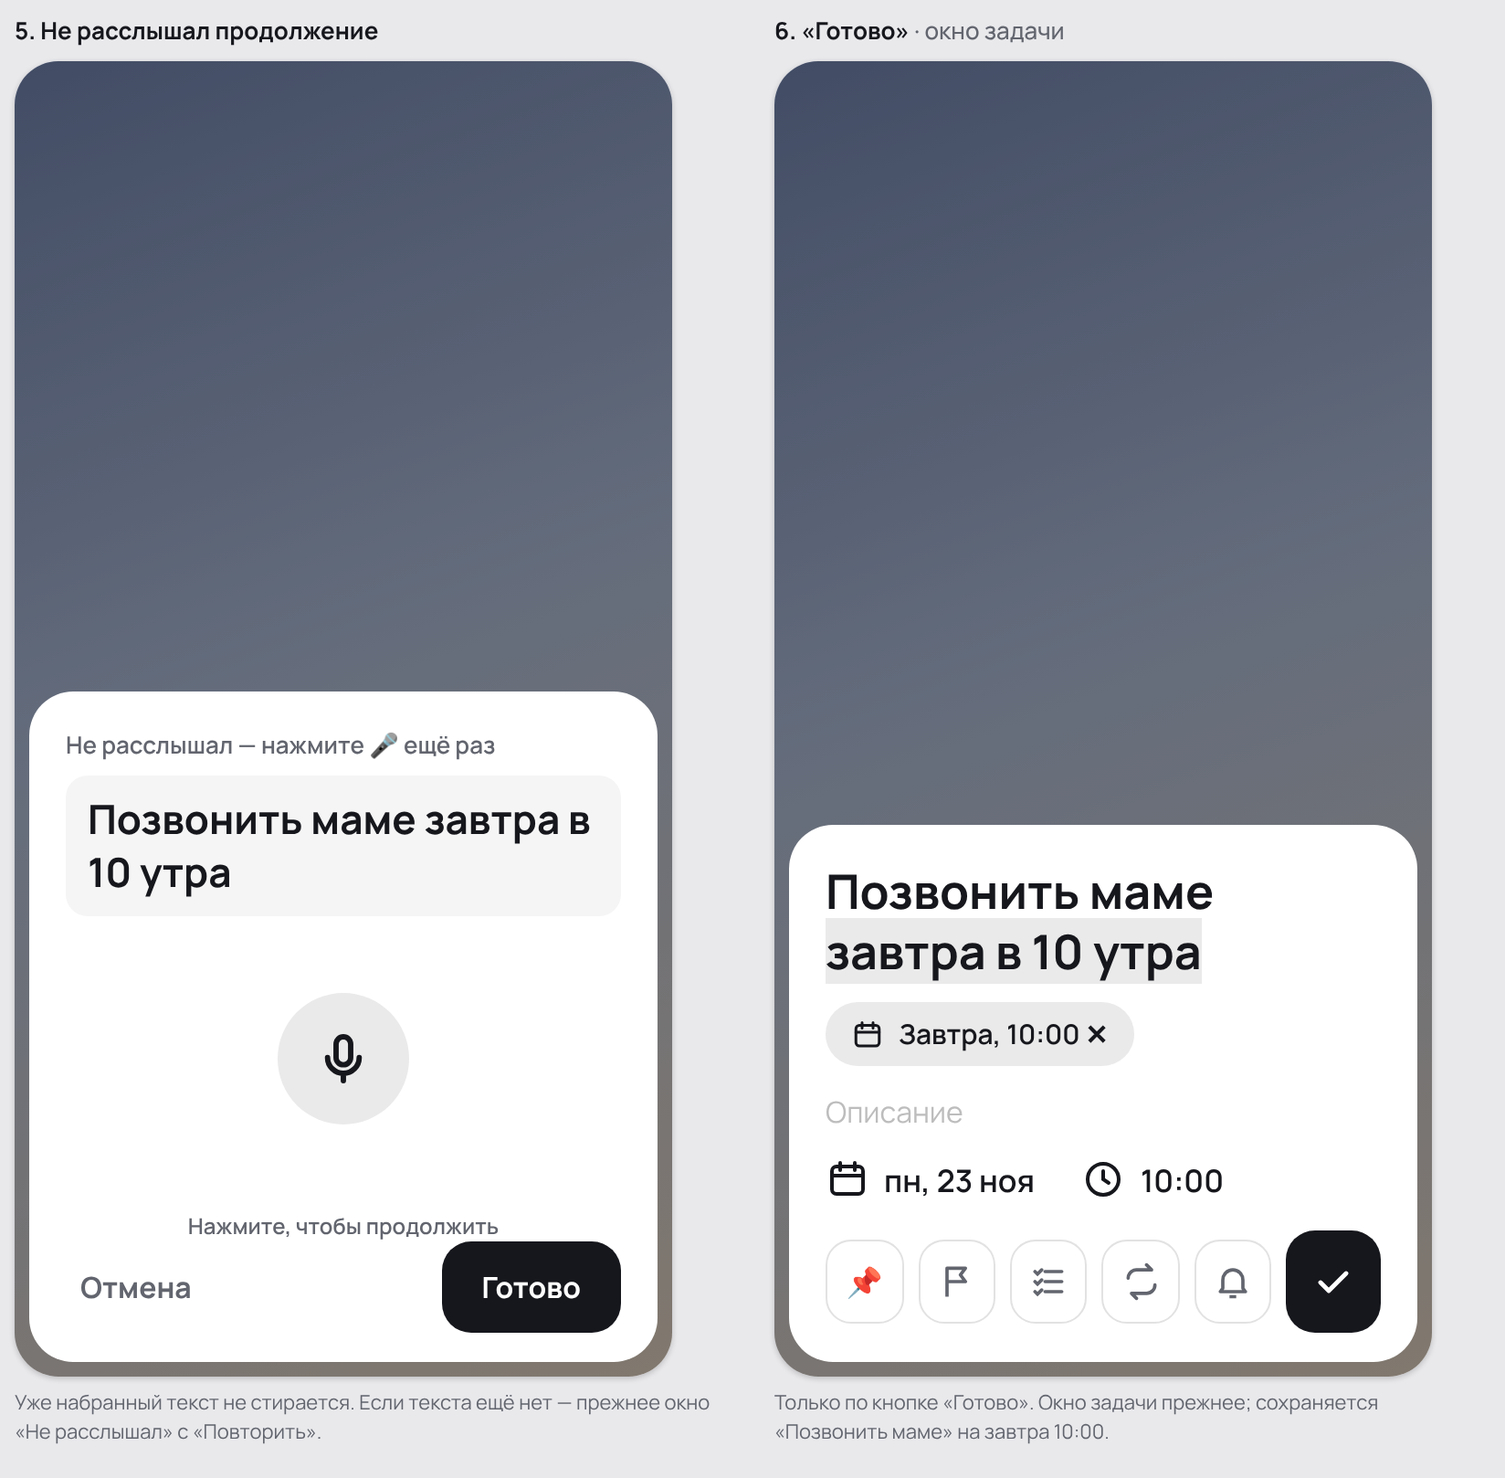
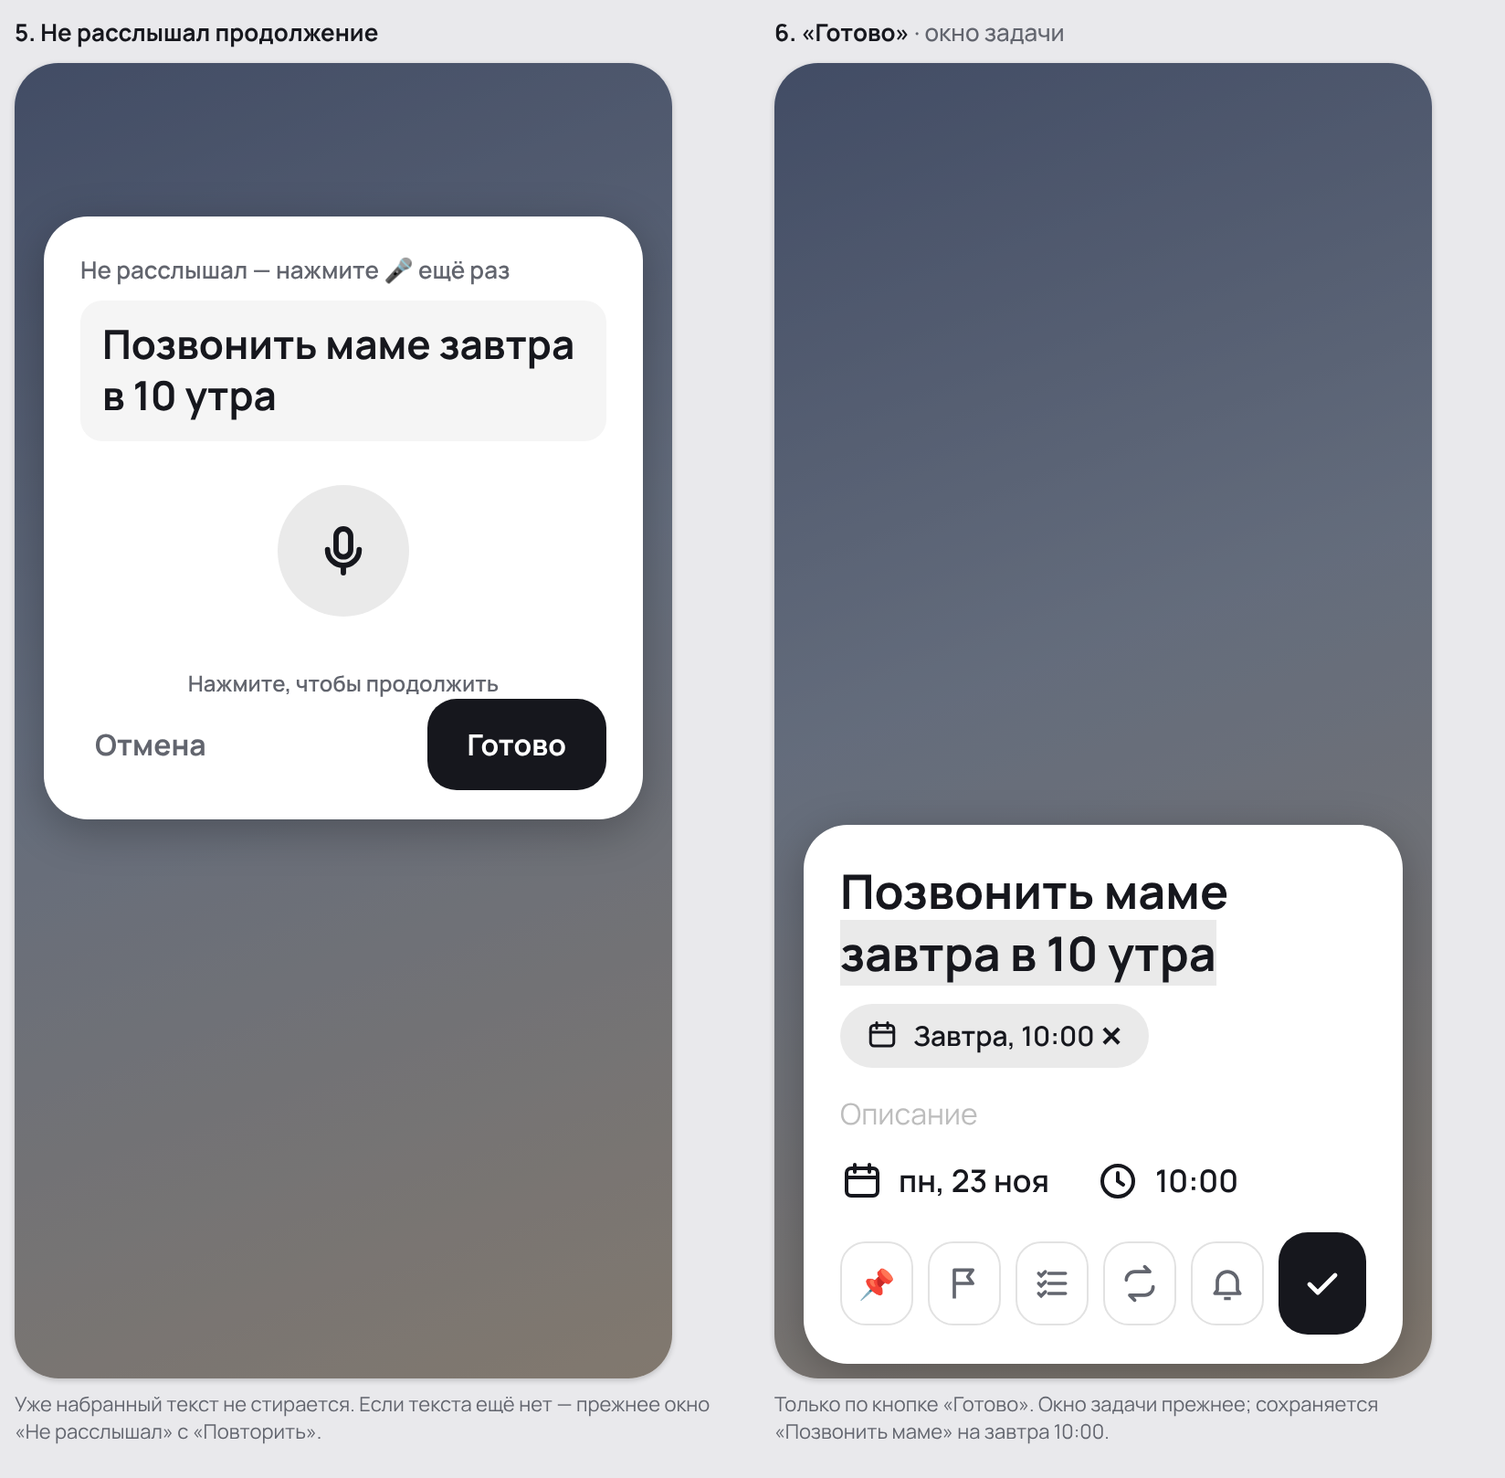
Макеты #299: окно по центру и неподвижное, варианты анимации микрофона
Claude-Session: https://claude.ai/code/session_019jJJH8rKyfX5gCn8Qf3pcD

diff --git a/design/approved/299/anim.html b/design/approved/299/anim.html
@@ -1,0 +1,59 @@
+<!DOCTYPE html>
+<html lang="ru"><head><meta charset="utf-8"><title>Анимации микрофона</title>
+<!-- #299. Варианты анимации большого микрофона при голосе. Монохром: цвета ColorTokens. Громкость голоса в приложении меняет размер/высоту, здесь она имитируется циклом. -->
+<style>
+@font-face { font-family: Manrope; font-weight: 600; src: url(../../../app/src/main/res/font/manrope_600.ttf); }
+@font-face { font-family: Manrope; font-weight: 800; src: url(../../../app/src/main/res/font/manrope_800.ttf); }
+:root { --bg:#F5F5F5; --text:#16171D; --text2:#62656E; --soft:#EAEAEA; --accent:#16171D; --inactive:#A9A9A9; }
+* { box-sizing: border-box; }
+body { margin:0; padding:16px; background:#E9E9EC; font-family: Manrope, sans-serif; color: var(--text); }
+#grid { display:grid; grid-template-columns: repeat(3, 320px); gap:12px; width: max-content; }
+.cell { width:320px; height:200px; background:#fff; border-radius:20px; position:relative; overflow:hidden; box-shadow: 0 1px 3px #0002; }
+.cell h3 { margin:0; position:absolute; left:14px; top:12px; font-size:14px; font-weight:800; }
+.cell p { margin:0; position:absolute; left:14px; bottom:10px; right:14px; font-size:11px; font-weight:600; color: var(--text2); line-height:1.3; }
+.stage { position:absolute; left:0; right:0; top:34px; height:130px; display:grid; place-items:center; }
+.mic { width:72px; height:72px; border-radius:50%; background:var(--accent); display:grid; place-items:center; position:relative; z-index:3; }
+.mic svg { width:32px; height:32px; color:#fff; }
+.abs { position:absolute; left:50%; top:50%; border-radius:50%; }
+/* А: круги-пульс */
+@keyframes pulseA { 0%,100% { transform: translate(-50%,-50%) scale(.78) } 25% { transform: translate(-50%,-50%) scale(1.2) } 50% { transform: translate(-50%,-50%) scale(.9) } 75% { transform: translate(-50%,-50%) scale(1.05) } }
+.a1 { width:120px;height:120px;background:var(--soft); animation: pulseA 2400ms ease-in-out infinite; }
+.a2 { width:96px;height:96px;background:#DADADA; animation: pulseA 2400ms ease-in-out infinite -300ms; }
+/* Б: эквалайзер в чёрном круге */
+.eq { display:flex; gap:5px; align-items:center; height:36px; }
+.eq i { display:block; width:6px; height:36px; border-radius:3px; background:#fff; transform-origin:center; animation: eq 1200ms ease-in-out infinite; }
+@keyframes eq { 0%,100% { transform: scaleY(.18) } 35% { transform: scaleY(1) } 65% { transform: scaleY(.45) } }
+/* В: бегущая волна */
+.wave { position:absolute; left:14px; right:14px; top:50%; height:90px; margin-top:-45px; display:flex; gap:3px; align-items:center; justify-content:center; }
+.wave i { display:block; width:4px; height:80px; border-radius:2px; background:#BDBDBD; animation: wave 2400ms ease-in-out infinite; }
+@keyframes wave { 0%,100% { transform: scaleY(.1) } 50% { transform: scaleY(1) } }
+/* Г: радар */
+@keyframes ripple { 0% { transform: translate(-50%,-50%) scale(.6); opacity:.9 } 100% { transform: translate(-50%,-50%) scale(1.9); opacity:0 } }
+.r { width:72px;height:72px; border:2px solid #9E9E9E; animation: ripple 2400ms ease-out infinite; }
+/* Д: точки по кругу */
+.ring { position:absolute; left:50%; top:50%; width:0; height:0; }
+.ring i { position:absolute; left:-4px; top:-4px; width:8px; height:8px; border-radius:50%; background:var(--accent); animation: dot 2400ms ease-in-out infinite; }
+@keyframes dot { 0%,100% { transform: var(--p) scale(.5); opacity:.35 } 50% { transform: var(--p) scale(1.5); opacity:1 } }
+/* Е: дыхание-свечение */
+@keyframes glow { 0%,100% { transform: translate(-50%,-50%) scale(.85); opacity:.55 } 50% { transform: translate(-50%,-50%) scale(1.25); opacity:1 } }
+.g1 { width:150px;height:150px;background:radial-gradient(circle, #CFCFCF 0%, #E6E6E6 45%, #fff 72%); animation: glow 2400ms ease-in-out infinite; }
+@keyframes breathe { 0%,100% { transform: scale(1) } 50% { transform: scale(1.1) } }
+.mic.b { animation: breathe 2400ms ease-in-out infinite; }
+</style></head><body>
+<svg width="0" height="0" style="position:absolute"><symbol id="i-mic" viewBox="0 0 24 24"><rect x="9" y="3" width="6" height="11.5" rx="3" fill="none" stroke="currentColor" stroke-width="2.2"/><path d="M5.5,11.5a6.5,6.5 0 0 0 13 0 M12,18v3" fill="none" stroke="currentColor" stroke-width="2.2" stroke-linecap="round"/></symbol></svg>
+<div id="grid">
+  <div class="cell"><h3>А. Круги-пульс</h3><div class="stage"><span class="abs a1"></span><span class="abs a2"></span><span class="mic"><svg><use href="#i-mic"/></svg></span></div><p>Мягкие круги вокруг микрофона дышат в такт голосу. Как сейчас, но плавнее.</p></div>
+  <div class="cell"><h3>Б. Эквалайзер</h3><div class="stage"><span class="mic"><div class="eq" id="eq"></div></span></div><p>Вместо значка в чёрном круге пять столбиков прыгают вместе с голосом. Пауза — столбики замирают и снова превращаются в 🎤.</p></div>
+  <div class="cell"><h3>В. Бегущая волна</h3><div class="stage"><div class="wave" id="wave"></div><span class="mic"><svg><use href="#i-mic"/></svg></span></div><p>За микрофоном волна из тонких столбиков бежит через всё окно, громче голос — выше волна.</p></div>
+  <div class="cell"><h3>Г. Радар</h3><div class="stage"><span class="abs r"></span><span class="abs r" style="animation-delay:-800ms"></span><span class="abs r" style="animation-delay:-1600ms"></span><span class="mic"><svg><use href="#i-mic"/></svg></span></div><p>Тонкие кольца расходятся от микрофона и гаснут, как сигнал. Спокойно и аккуратно.</p></div>
+  <div class="cell"><h3>Д. Точки по кругу</h3><div class="stage"><div class="ring" id="ring"></div><span class="mic"><svg><use href="#i-mic"/></svg></span></div><p>Двенадцать точек вокруг микрофона по очереди вспыхивают, голос делает вспышки крупнее.</p></div>
+  <div class="cell"><h3>Е. Дыхание</h3><div class="stage"><span class="abs g1"></span><span class="mic b"><svg><use href="#i-mic"/></svg></span></div><p>Сам микрофон чуть «дышит», вокруг мягкое серое свечение. Самый тихий вариант.</p></div>
+</div>
+<script>
+const eq = document.getElementById('eq');
+[0,150,300,75,225].forEach(d => { const i = document.createElement('i'); i.style.animationDelay = (-d)+'ms'; i.style.animationDuration = (900+d%3*150)+'ms'; eq.appendChild(i); });
+const wave = document.getElementById('wave');
+for (let k=0;k<48;k++){ const i=document.createElement('i'); i.style.animationDelay = (-k*50)+'ms'; wave.appendChild(i); }
+const ring = document.getElementById('ring');
+for (let k=0;k<12;k++){ const i=document.createElement('i'); const a=k*30; i.style.setProperty('--p', `rotate(${a}deg) translateY(-54px)`); i.style.animationDelay=(-k*200)+'ms'; ring.appendChild(i); }
+</script></body></html>

diff --git a/design/approved/299/screens.html b/design/approved/299/screens.html
@@ -52,7 +52,9 @@
     background: linear-gradient(160deg, #6E7FA8 0%, #A7B5CF 45%, #D8C9B8 100%); }
   .phone .scrim { position: absolute; inset: 0; background: #00000066; }
   .phone .home-widget { position: absolute; left: 12px; right: 12px; top: 64px; opacity: .9; }
-  .sheet { position: absolute; left: 8px; right: 8px; bottom: 8px; background: var(--surface); border-radius: 24px; padding: 20px 20px 16px; }
+  .sheet { position: absolute; left: 16px; right: 16px; top: 84px; height: 330px; background: var(--surface); border-radius: 24px; padding: 20px 20px 16px; display: flex; flex-direction: column; box-shadow: 0 6px 24px #0004; }
+  .sheet .micwrap, .sheet .micwrap.n { flex: 1; height: auto; padding-bottom: 20px; }
+  .sheet.qa { top: auto; bottom: 8px; height: auto; display: block; }
   .hint { font-size: 13px; font-weight: 600; color: var(--text2); }
   .said { font-size: 24px; font-weight: 700; line-height: 1.3; margin: 8px 0 0; min-height: 62px; }
   .said .tail { color: var(--inactive); }
@@ -96,8 +98,6 @@
   .kbd div { display: flex; gap: 5px; justify-content: center; }
   .kbd span { flex: 1; max-width: 31px; background: #fff; border-radius: 6px; box-shadow: 0 1px 0 #0002; }
   .kbd .wide { max-width: 180px; }
-  .phone.k .sheet { bottom: 258px; }
-  .phone.k .micwrap { height: 96px; }
   .dimx { font-size: 11px; color: var(--text2); margin-top: 6px; line-height: 1.4; }
 </style>
 </head>
@@ -150,9 +150,9 @@
     <div class="phone k"><div class="scrim"></div><div class="sheet">
       <div class="hint">Проверьте текст</div>
       <div class="field"><div class="said">Позвонить маме завтра в 10 утра<span class="cursor"></span></div></div>
-      <div class="micwrap"><span class="mic soft" style="width:56px;height:56px"><svg style="width:26px;height:26px"><use href="#i-mic"/></svg></span></div><div class="actions"><span class="tbtn">Отмена</span><span class="pbtn">Готово</span></div></div>
+      <div class="micwrap"><span class="mic soft"><svg><use href="#i-mic"/></svg></span></div><div class="actions"><span class="tbtn">Отмена</span><span class="pbtn">Готово</span></div></div>
       <div class="kbd"><div><span></span><span></span><span></span><span></span><span></span><span></span><span></span><span></span><span></span><span></span><span></span></div><div><span></span><span></span><span></span><span></span><span></span><span></span><span></span><span></span><span></span><span></span><span></span></div><div><span></span><span></span><span></span><span></span><span></span><span></span><span></span><span></span><span></span></div><div><span></span><span class="wide"></span><span></span></div></div></div>
-    <p class="dimx">Окно поднимается над клавиатурой, кнопки видны. Нажатие на 🎤 скрывает клавиатуру и продолжает диктовку с конца текста.</p></div>
+    <p class="dimx">Окно стоит на том же месте, клавиатура открывается под ним и его не двигает: нижняя кромка окна выше клавиатуры. Нажатие на 🎤 скрывает клавиатуру и продолжает диктовку с конца текста.</p></div>
   <div id="v4"><p class="cap">4. Продолжение диктовки</p>
     <div class="phone"><div class="scrim"></div><div class="sheet">
       <div class="hint">Слушаю…</div>

diff --git a/design/approved/299/requirements.md b/design/approved/299/requirements.md
@@ -32,12 +32,17 @@
 | Не расслышал продолжение | «Не расслышал — нажмите 🎤 ещё раз» | прежний текст сохраняется | серый | «Отмена», «Готово» |
 | Ошибка без текста | как в #95: «Не расслышал» / нет доступа / недоступно | — | — | как в #95 |
 
+- **Положение.** Окно стоит по центру в верхней половине экрана, ближе к верху: отступ от верхнего края ~84 dp, высота ~330 dp, поля по бокам 16 dp, скругление 24 dp, лёгкая тень. Положение и размер **фиксированы**: окно не двигается и не меняет размер при появлении и скрытии клавиатуры, при росте текста (поле прокручивается внутри) и при паузе. Нижняя кромка окна выше самой высокой клавиатуры, поэтому кнопки «Отмена» и «Готово» остаются видны. Окно поверх рабочего стола не изменяет размер под клавиатуру (`adjustNothing`).
 - Запись начинается сразу при открытии окна.
 - После паузы распознаватель сам завершает запись — окно не закрывается и в задачу ничего не передаёт.
 - Продолжение: новая запись, результат дописывается в конец через пробел. Курсор после правки не учитывается — дописываем в конец.
 - Нажатие на поле во время записи останавливает запись и открывает клавиатуру. Окно поднимается над клавиатурой, кнопки видны; нажатие на 🎤 скрывает клавиатуру и продолжает диктовку.
 - «Готово» передаёт текущий текст поля в окно задачи (запись, если идёт, останавливается, текст берётся как есть). Пустой текст — кнопка неактивна.
 - «Отмена», «Назад», нажатие на затемнение — окно закрывается без задачи.
+
+## 2.1. Анимация микрофона при голосе
+
+Во время записи большой 🎤 анимируется по громкости голоса; на паузе анимации нет, микрофон серый. Варианты показаны в [animations.gif](animations.gif) и [anim.html](anim.html): А «Круги-пульс», Б «Эквалайзер», В «Бегущая волна», Г «Радар», Д «Точки по кругу», Е «Дыхание». Выбор PM — после согласования. Все варианты монохромные, без новых токенов цвета; при включённом в системе «Убрать анимации» вместо движения показывается неподвижный чёрный микрофон.
 
 ## 3. Текст
 
@@ -56,4 +61,5 @@
 ## Вне объёма
 
 - Непрерывная запись без остановки на паузах (вариант Б вопроса 1).
+- Перетаскивание окна и изменение его размера пользователем.
 - Микрофон внутри приложения.

diff --git a/design/approved/299/README.md b/design/approved/299/README.md
@@ -3,7 +3,8 @@
 Статус — на согласовании PM. [ТЗ](requirements.md) · [Issue](https://github.com/prostovasei/simpe-tasks-app/issues/299) · [Исходник макетов](screens.html). Доработка [#95](../95/README.md).
 
 - [Кнопка в виджете](widget-mic.png) — светло-серая подложка, чёрный значок; 392 и 320 dp.
-- [Окно распознавания](voice-edit.png) — запись, пауза с текстом в поле, правка с клавиатуры, продолжение диктовки.
+- [Окно распознавания](voice-edit.png) — окно по центру сверху, неподвижное: запись, пауза с текстом в поле, правка с клавиатуры (окно не сдвигается), продолжение диктовки.
+- [Анимации микрофона](animations.gif) · [кадр](animations.png) · [исходник](anim.html) — шесть вариантов, выбор PM.
 - [Ошибка и переход](voice-continue.png) — «Не расслышал» без потери текста; «Готово» — окно задачи.
 
 Стиль и размеры — как в #95 (ColorTokens, SizeTokens, Manrope). PNG собраны Playwright из `screens.html` (масштаб 2).
